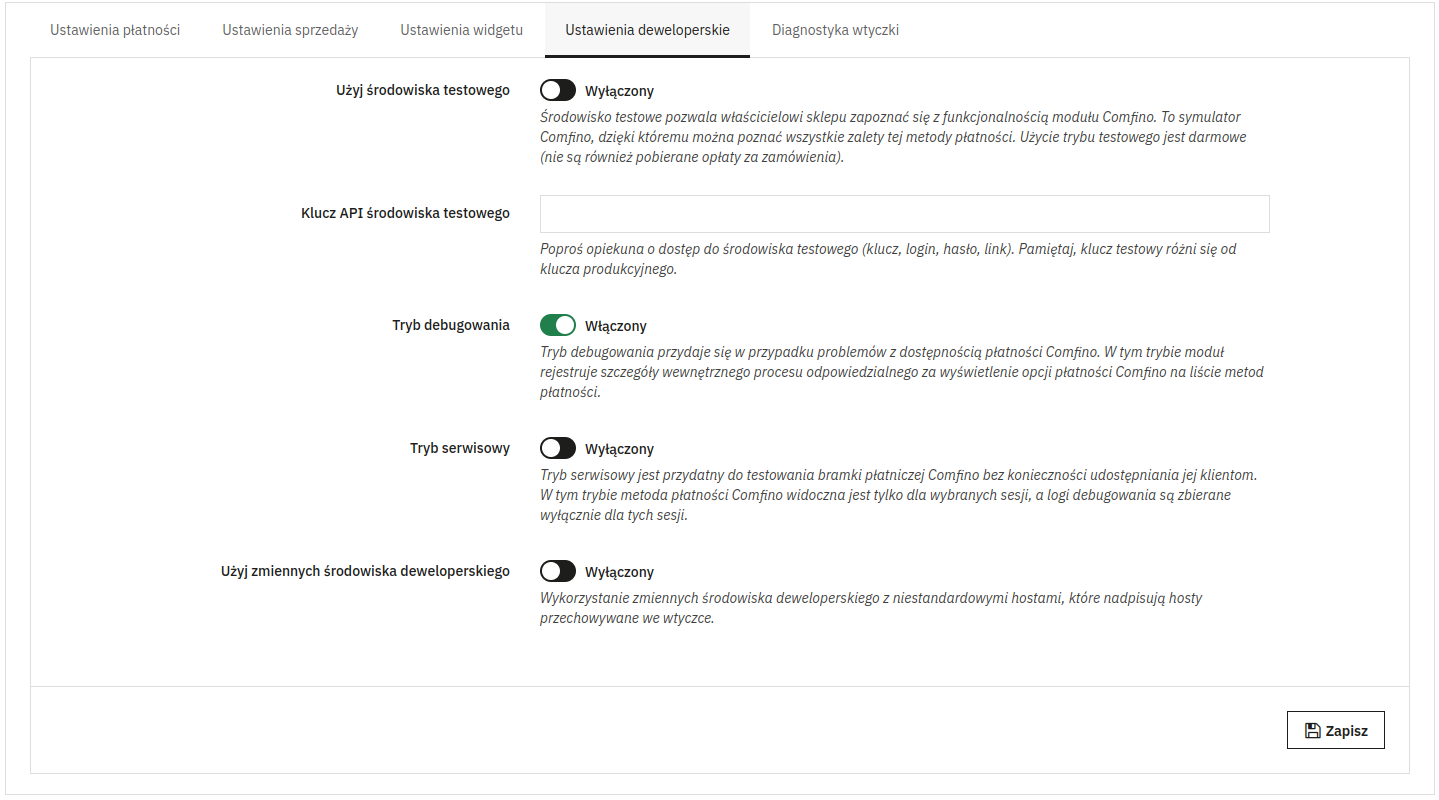
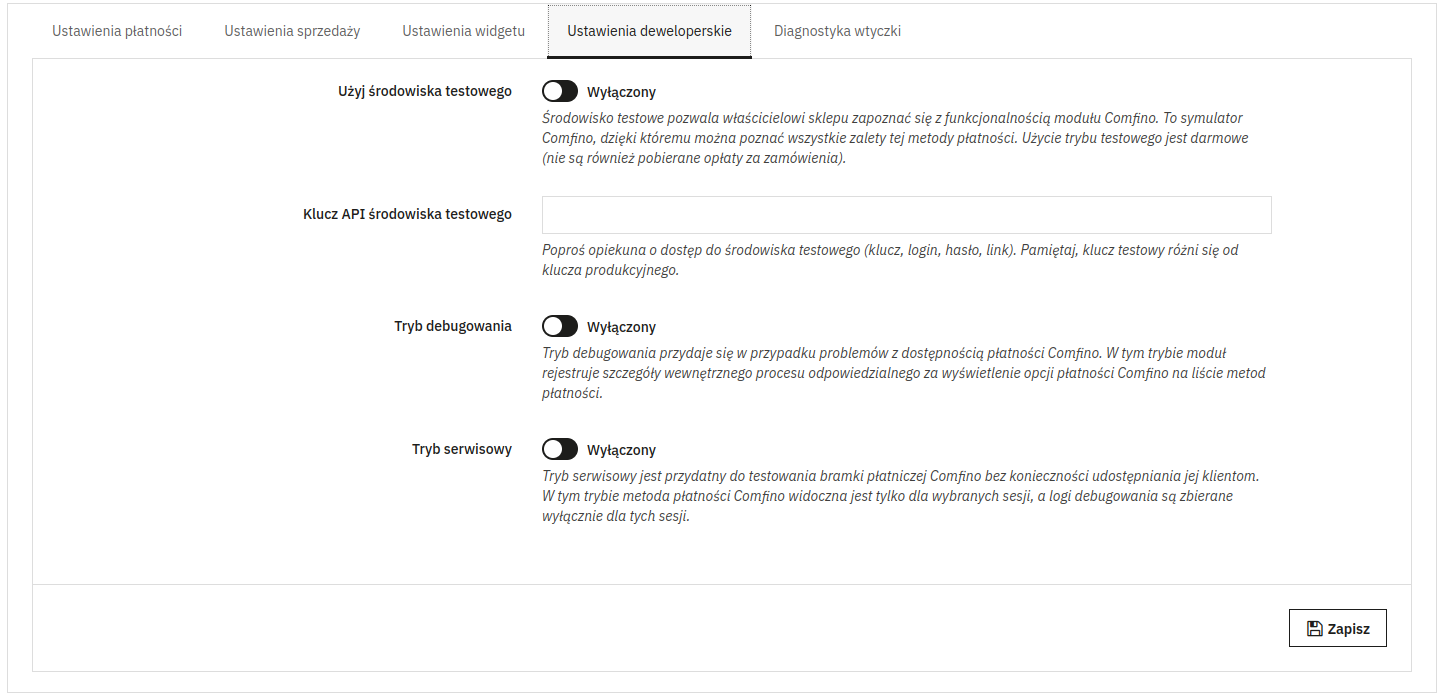
Fix bugs in pl documentation

diff --git a/docs/comfino.pl.md b/docs/comfino.pl.md
@@ -98,7 +98,6 @@ Szczegółowe informacje o działaniu widgetu i jego opcjach konfiguracyjnych zn
 * **Klucz API środowiska testowego** — unikalny klucz dostępowy umożliwiający komunikację modułu z testowym API Comfino
 * **Tryb debugowania** — przełącznik aktywacji/deaktywacji trybu debugowania
 * **Tryb serwisowy** — przełącznik aktywacji/deaktywacji trybu serwisowego
-* **Użyj zmiennych środowiska deweloperskiego** — przełącznik aktywacji/deaktywacji trybu dla deweloperów z wykorzystaniem niestandardowych hostów
 
 Tryb debugowania przydaje się w przypadku problemów z dostępnością płatności Comfino. W tym trybie moduł rejestruje szczegóły wewnętrznego procesu odpowiedzialnego za wyświetlenie opcji płatności Comfino na liście metod płatności. Zaleca się korzystać z tej opcji wraz z aktywacją drugiej opcji `"Tryb serwisowy"` w celu minimalizacji zapisywanych logów.
 
@@ -141,7 +140,7 @@ Zakładka zawiera dodatkowo zapis operacji wykonanych podczas instalacji, aktual
 
 Log instalacyjny:
 * **Po pierwszej instalacji modułu – weryfikacja poprawnej konfiguracji**
-* **Gdy występują problemy z statusami zamówień lub hook-ami**
+* **Gdy występują problemy ze statusami zamówień lub hook-ami**
 
 Log aktualizacji:
 * **Po aktualizacji modułu do nowszej wersji**
